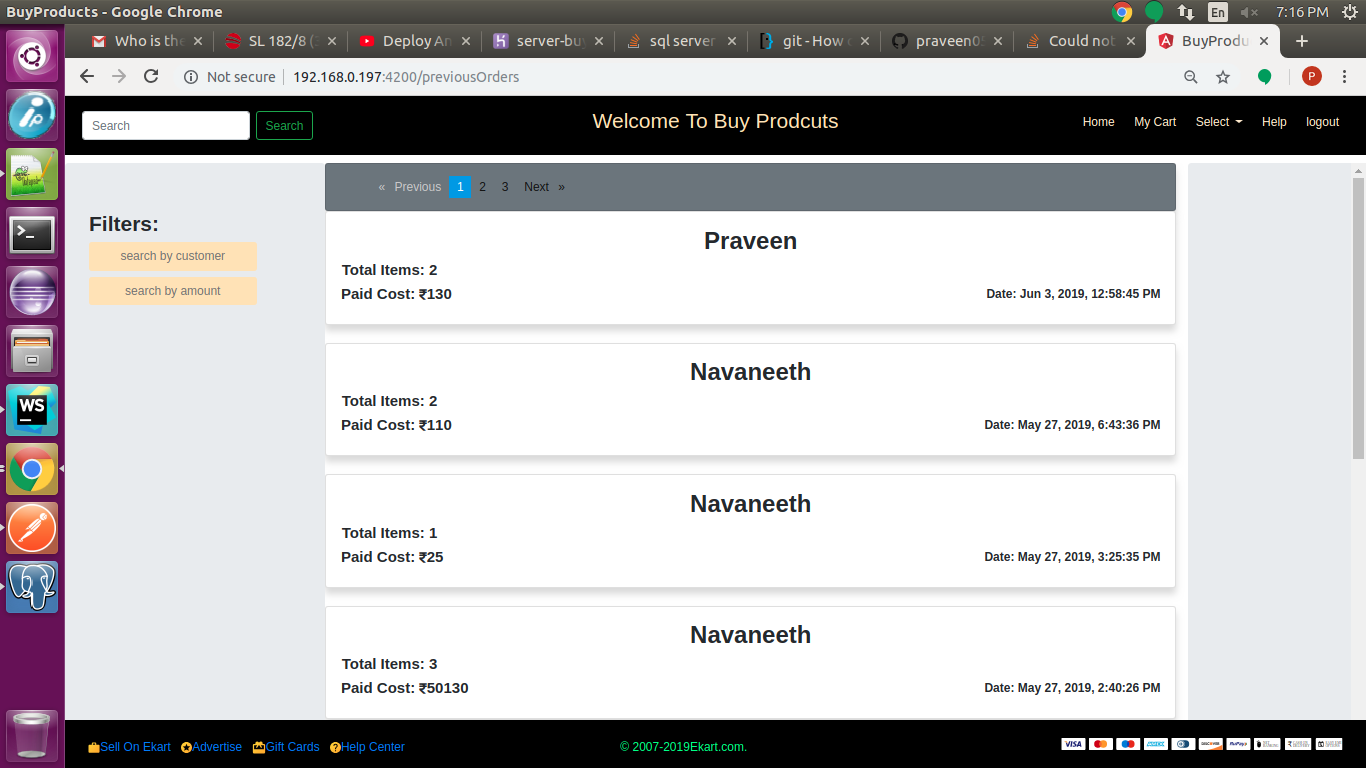
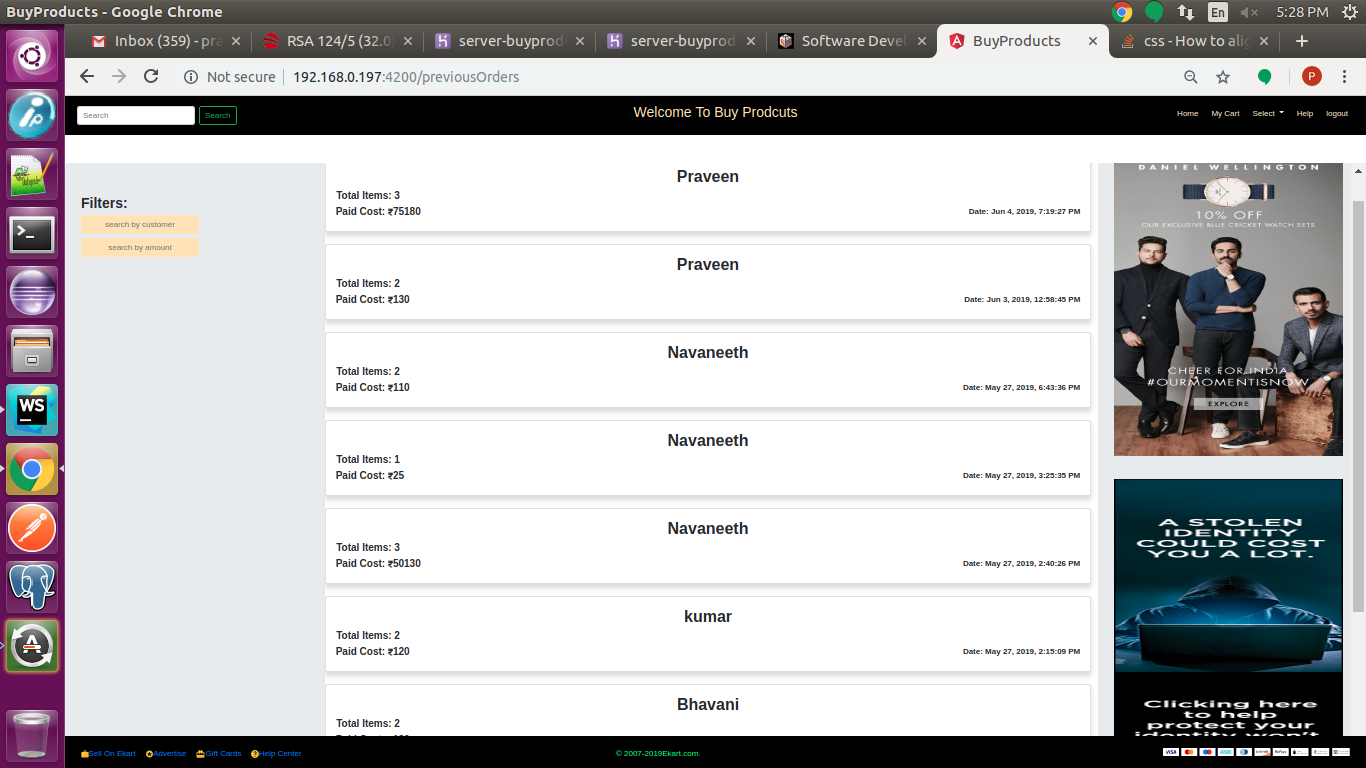
"Header, logout, previous Orders and Welcome Page modified"

Changed region(s): [[0.0, 0.125, 1.0, 1.0], [0.0922, 0.0, 0.9531, 0.0938], [0.0, 0.6562, 0.0615, 0.875]]

diff --git a/client/BuyProducts/src/app/previous-orders/previous-orders.component.html b/client/BuyProducts/src/app/previous-orders/previous-orders.component.html
@@ -1,10 +1,24 @@
 <div class="container-fluid">
   <div class="split left jumbotron ">
-    <div class="justify-content-center">
-        <h3 class="font-weight-bolder">Filters:</h3>
-        <input type="text" placeholder="search by customer" class="btn searchBtn mb-2" style="background-color: moccasin"><br>
-        <input type="text" placeholder="search by amount" class="btn searchBtn mb-2" style="background-color: moccasin">
+    <div class="card shadow-lg mb-sm-1 mb-md-2 mb-lg-3 mb-xl-3">
+      <div class="card-body">
+       <form>
+         <h3 class="font-weight-bolder">Filters:</h3>
+         <div class="form-group">
+           <input type="text"  placeholder="search by customer" class="form-control" style="background-color: moccasin">
+         </div>
+         <div class="form-group">
+           <input type="text" class="form-control" placeholder="search by amount" style="background-color: moccasin">
+         </div>
+       </form>
+
+      </div>
     </div>
+    <ul class="list-unstyled">
+      <li class="m-sm-2 m-md-2 m-lg-2 m-xl-3"><img src="../../assets/SideImages/side3Cricketers.jpg" height="600" width="100%"/></li>
+      <li><img src="../../assets/SideImages/advertise.png" height="600" width="100%"/></li>
+    </ul>
+
   </div>
   <div class="split right pl-lg-3 pl-md-3 pl-xl-3 pl-sm-3">
    <div class="row">

diff --git a/client/BuyProducts/src/app/header/header.component.ts b/client/BuyProducts/src/app/header/header.component.ts
@@ -1,6 +1,7 @@
 import { Component, OnInit } from '@angular/core';
-import {Router} from "@angular/router";
+import {ActivatedRoute, Router} from "@angular/router";
 import {DatabasedataService} from "../databasedata.service";
+import {LocalStorage} from "@ngx-pwa/local-storage";
 
 @Component({
   selector: 'app-header',
@@ -29,17 +30,25 @@ import {DatabasedataService} from "../databasedata.service";
   ]
 })
 export class HeaderComponent implements OnInit {
-  constructor(private router: Router, private dbServiceObj: DatabasedataService) { }
+  constructor(private router: Router, private dbServiceObj: DatabasedataService, private localStorage: LocalStorage) { }
 
   databaseData: any;
+  userData = {userName: '', email: ''};
   buyProductsId = 0;
   myCartFlag = false;
 
   ngOnInit() {
-        this.dbServiceObj.getProductData().subscribe((resolve) => {
+      this.dbServiceObj.getProductData().subscribe((resolve) => {
           console.log(resolve);
         this.databaseData = resolve;
-    });
+      });
+
+    // getting user details from local storage
+    this.localStorage.getItem('user').subscribe((customer) => {
+      this.userData['userName'] = customer['userName'];
+      this.userData['email'] = customer['email'];
+      console.log("customer:",this.userData);
+    })
   }
 
   buyProductSendData(){

diff --git a/client/BuyProducts/src/app/welcome-page/welcome-page.component.html b/client/BuyProducts/src/app/welcome-page/welcome-page.component.html
@@ -1,6 +1,16 @@
 <body style="position: absolute; top: 9%;">
-  <marquee class="text-white" style="font-size: 500%">Welcome To BuyProducts Project</marquee>
-      <button class="btn btn-outline-success btn-light text-primary" type="button" [routerLink]="['/previousOrders']">
+  <!--<marquee class="text-white" style="font-size: 500%">Welcome To BuyProducts Project</marquee>
+      <button size="30%" class="btn-lg btn-outline-white btn-light text-primary" type="button" style="position: absolute;top: 45%; left: 48%" [routerLink]="['/previousOrders']">
       Continue...
-    </button>
+    </button>-->
+    <form style="position: absolute; top: 30%; left:0% ;right:0%">
+      <div class="form-group">
+        <marquee for="continue" class="text-white display-4" scrollamount="10">Welcome to BuyProducts Project</marquee>
+        <button id="continue" class="form-control btn-lg" type="button" [routerLink]="['/previousOrders']"
+                style="width: 10%; position: absolute; left: 45%;">
+          Continue....
+        </button>
+      </div>
+    </form>
+
 </body>

diff --git a/client/BuyProducts/src/app/logout/logout.component.ts b/client/BuyProducts/src/app/logout/logout.component.ts
@@ -1,18 +1,23 @@
-import { Component, OnInit } from '@angular/core';
+import {Component, OnDestroy, OnInit} from '@angular/core';
 import {Router} from "@angular/router";
 import {DatabasedataService} from "../databasedata.service";
+import {LocalStorage} from "@ngx-pwa/local-storage";
 
 @Component({
   selector: 'app-logout',
   templateUrl: './logout.component.html',
   styles: []
 })
-export class LogoutComponent implements OnInit {
+export class LogoutComponent implements OnInit, OnDestroy {
 
-  constructor(private router: Router, private dbServiceObj: DatabasedataService) { }
+  constructor(private router: Router,private localStorage: LocalStorage) { }
 
   ngOnInit() {
     this.router.navigate(['/loginPage']);
+  }
+
+  ngOnDestroy() {
+    this.localStorage.clear();
   }
 
 }

diff --git a/client/BuyProducts/src/app/header/header.component.html b/client/BuyProducts/src/app/header/header.component.html
@@ -2,10 +2,7 @@
   <div class="row m-1">
      <!--Header Search Box-->
     <div class="col-lg-4 col-sm-4 col-md-4">
-      <form class="form-inline my-2 my-lg-0" style="position: absolute; top: 20%;">
-        <input class="form-control mr-sm-2" type="search" placeholder="Search" aria-label="Search">
-        <button class="btn btn-outline-success my-2 my-sm-0" type="submit">Search</button>
-      </form>
+      <h1 class="text-primary">Hello {{userData.userName}}</h1>
     </div>
 
     <!--Welcome Content--><!--style="position: absolute; top: 20%; color: moccasin"-->

diff --git a/client/BuyProducts/src/app/login-page/login-page.component.ts b/client/BuyProducts/src/app/login-page/login-page.component.ts
@@ -32,7 +32,6 @@ export class LoginPageComponent implements OnInit {
   enterIntoproject() {
     if (this.userName != null && this.email != null && this.userName.match('[a-zA-Z0-9]')) {
       let customerDetails = {userName: this.userName, email: this.email};
-      console.log("customer:", customerDetails);
       this.localStorage.setItem('key', customerDetails).subscribe(() => { });
       this.router.navigate(['/']);
     }
